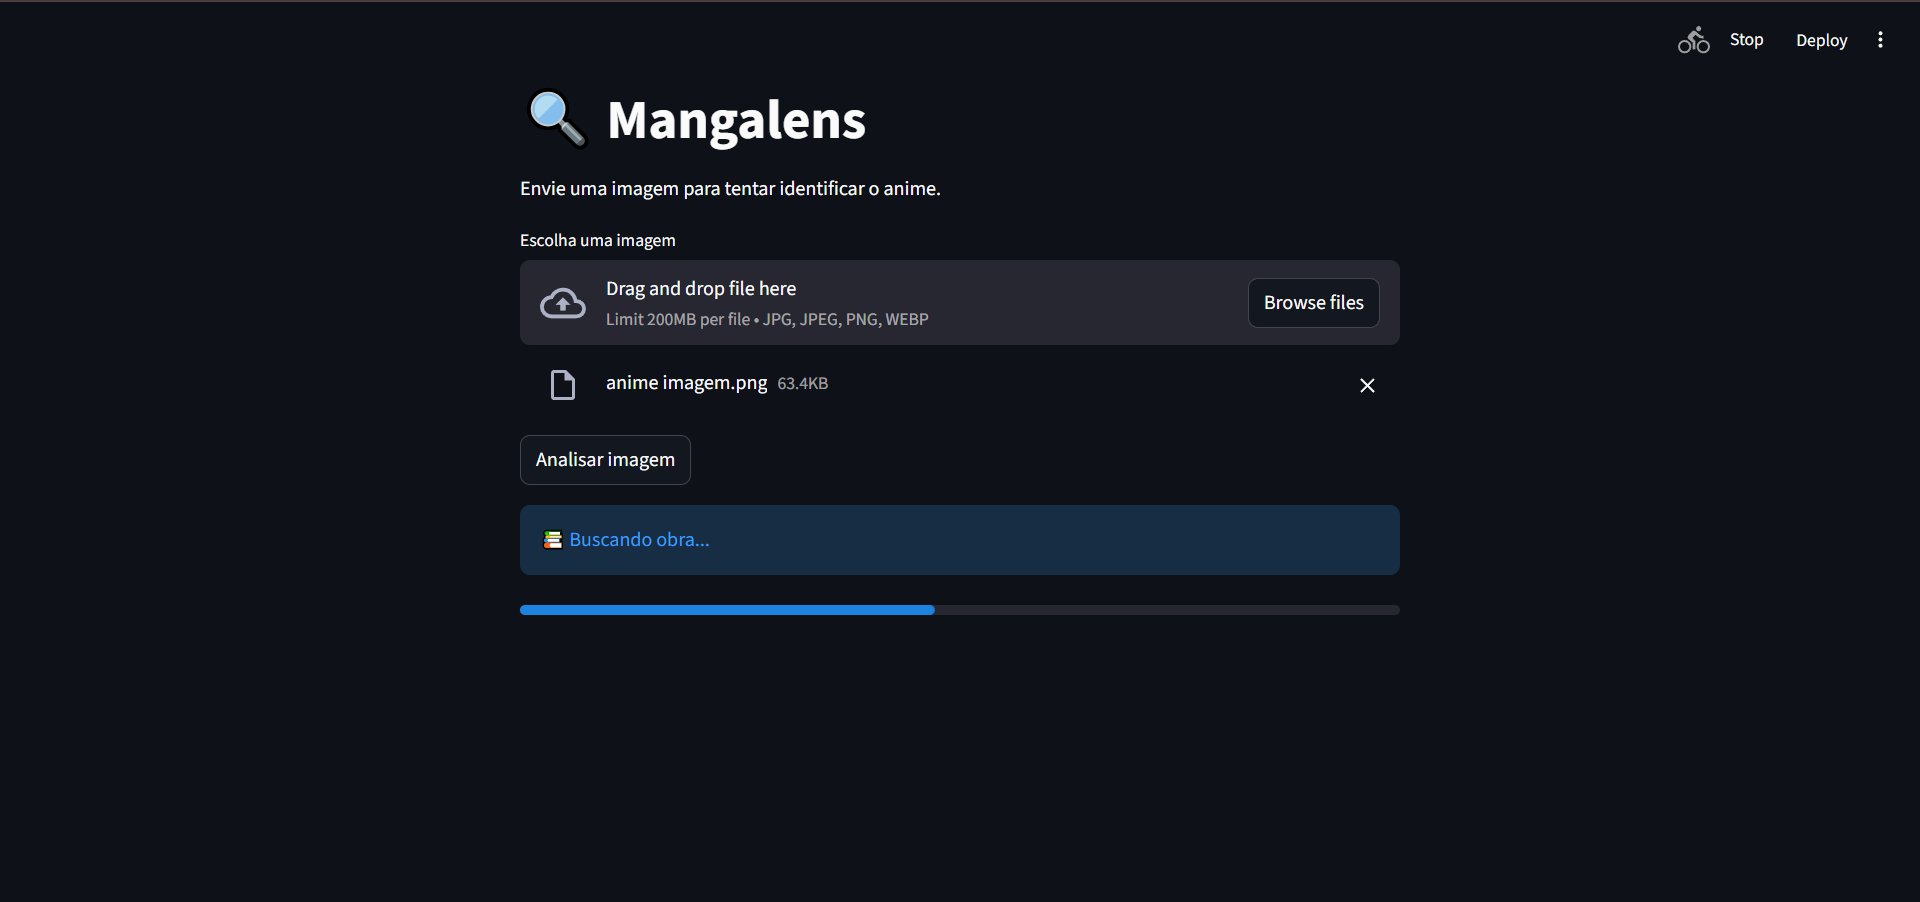
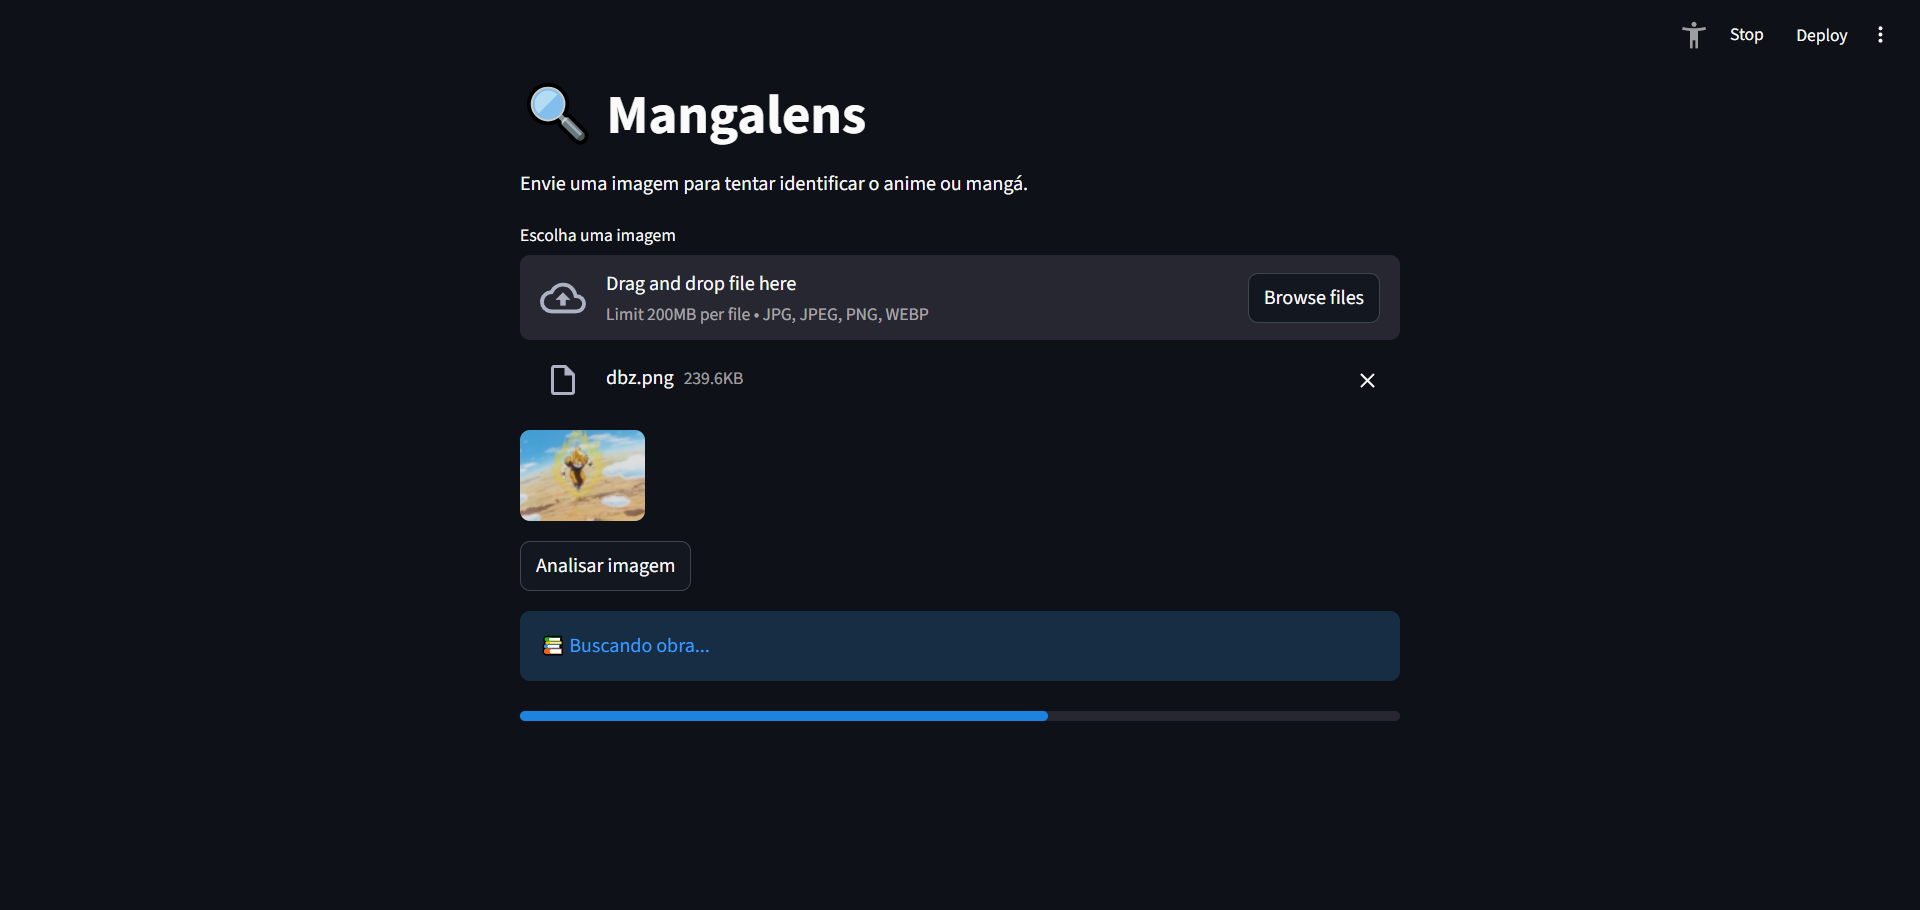
docs: atualizando README

diff --git a/README.md b/README.md
@@ -2,7 +2,13 @@
 
 O Mangalens é uma aplicação Full Stack focada na identificação de animes e mangás através de imagens, utilizando visão computacional, embeddings e integração com APIs especializadas.
 
-Atualmente o projeto é capaz de identificar animes utilizando APIs especializadas e exibir automaticamente a capa da obra encontrada.
+Atualmente o projeto é capaz de identificar:
+
+* Cenas de anime
+* Painéis de mangá
+* Capas de anime
+
+Após a identificação, o sistema busca automaticamente informações complementares e a capa da obra quando disponível.
 
 O projeto foi desenvolvido com foco em:
 
@@ -10,12 +16,10 @@ O projeto foi desenvolvido com foco em:
 * Integração com APIs externas
 * Processamento de imagens
 * Inteligência Artificial aplicada
-* UX/UI
-* Portfólio Full Stack
 
 ---
 
-# ✨ Demonstração do Projeto 
+# ✨ Demonstração do Projeto
 
 ## Upload da imagem
 
@@ -37,6 +41,12 @@ O projeto foi desenvolvido com foco em:
 
 ✅ Pré-processamento de imagens
 
+✅ Identificação de cenas de anime
+
+✅ Identificação de painéis de mangá
+
+✅ Identificação de capas de anime
+
 ✅ Geração de embeddings
 
 ✅ Busca por similaridade local
@@ -47,7 +57,7 @@ O projeto foi desenvolvido com foco em:
 
 ✅ Integração com AniList
 
-✅ Busca automática de capas de anime
+✅ Busca automática de capas
 
 ✅ Fallback automático entre APIs
 
@@ -56,6 +66,8 @@ O projeto foi desenvolvido com foco em:
 ✅ Interface web desenvolvida com Streamlit
 
 ✅ API REST desenvolvida com FastAPI
+
+✅ Documentação automática via Swagger
 
 ---
 
@@ -68,14 +80,37 @@ Imagem enviada
       ↓
 Pré-processamento
       ↓
-Tentativa de reconhecimento via Trace.moe
+Consulta ao Trace.moe
       ↓
-Fallback para SauceNAO
+Consulta ao SauceNAO
+      ↓
+Validação e comparação dos resultados
       ↓
 Busca da capa via AniList
       ↓
 Retorno final para a interface
 ```
+
+---
+
+# 🤖 Inteligência Artificial no projeto
+
+O Mangalens utiliza IA em duas frentes principais:
+
+### 1. Geração de Embeddings
+
+As imagens enviadas são transformadas em vetores numéricos utilizando uma rede neural pré-treinada (ResNet18).
+
+Esses vetores representam características visuais da imagem e permitem comparações por similaridade.
+
+### 2. APIs Especializadas
+
+O projeto utiliza serviços externos que empregam modelos de IA e visão computacional para reconhecer obras a partir de imagens:
+
+* Trace.moe
+* SauceNAO
+
+Essas APIs analisam o conteúdo visual da imagem e retornam possíveis correspondências.
 
 ---
 
@@ -96,7 +131,13 @@ Retorno final para a interface
 ## Processamento de imagem
 
 * Pillow
-* NumPy
+* PyTorch
+* Torchvision
+
+## Inteligência Artificial
+
+* ResNet18
+* Embeddings Vetoriais
 
 ## APIs externas
 
@@ -112,6 +153,12 @@ Retorno final para a interface
 app/
 ├── config/
 ├── integrations/
+│   ├── anilist.py
+│   ├── saucenao.py
+│   └── trace_moe.py
+│
+├── reference_images/
+│
 ├── routes/
 ├── schemas/
 ├── services/
@@ -129,7 +176,7 @@ frontend/
 
 assets/
 ├── demo-upload.png
-└── demo-resultado.png
+└── demo-result.png
 ```
 
 ---
@@ -145,7 +192,7 @@ git clone URL_DO_REPOSITORIO
 ## 2. Acesse a pasta do projeto
 
 ```bash
-cd Mangalens
+cd mangalens
 ```
 
 ## 3. Instale as dependências
@@ -196,14 +243,14 @@ streamlit run frontend/streamlit_app.py
 
 # 📌 Status do projeto
 
-🚧 Em desenvolvimento
+🚧 MVP funcional em desenvolvimento
 
 ### Próximas melhorias
 
-* Banco próprio de capas de anime
-* Reconhecimento de capas oficiais
-* Reconhecimento de páginas e painéis de mangá
-* Expansão do banco de dados de imagens
+* Aprimoramento da busca local por embeddings
+* Expansão da base de imagens de referência
+* Suporte avançado para mangás
+* Banco próprio de capas
 * Deploy em produção
 * Melhorias contínuas de UX/UI
 
@@ -219,7 +266,6 @@ Este projeto foi criado para aprofundar conhecimentos em:
 * Processamento de imagens
 * Inteligência Artificial aplicada
 * Arquitetura de Software
-* UX/UI Design
 * Desenvolvimento Full Stack
 
 ---
@@ -227,7 +273,5 @@ Este projeto foi criado para aprofundar conhecimentos em:
 # 👨💻 Autor
 
 **Nicolas Moraes**
-
-Estudante de Análise e Desenvolvimento de Sistemas, com foco em desenvolvimento web, UX/UI e aplicações utilizando Inteligência Artificial.
 
 Projeto desenvolvido para fins de estudo, prática e composição de portfólio.
